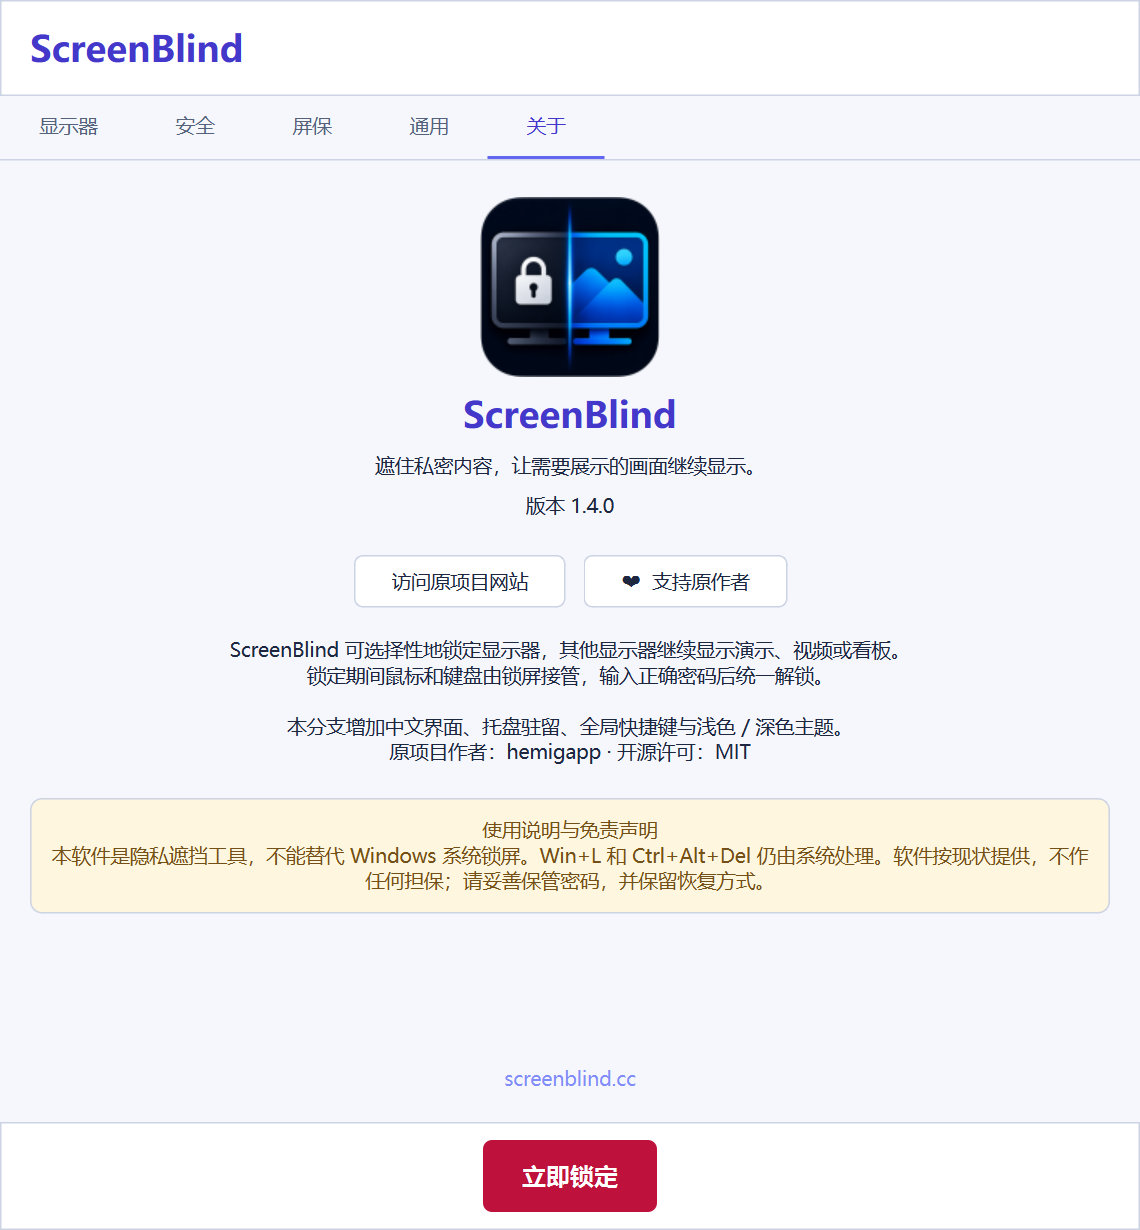
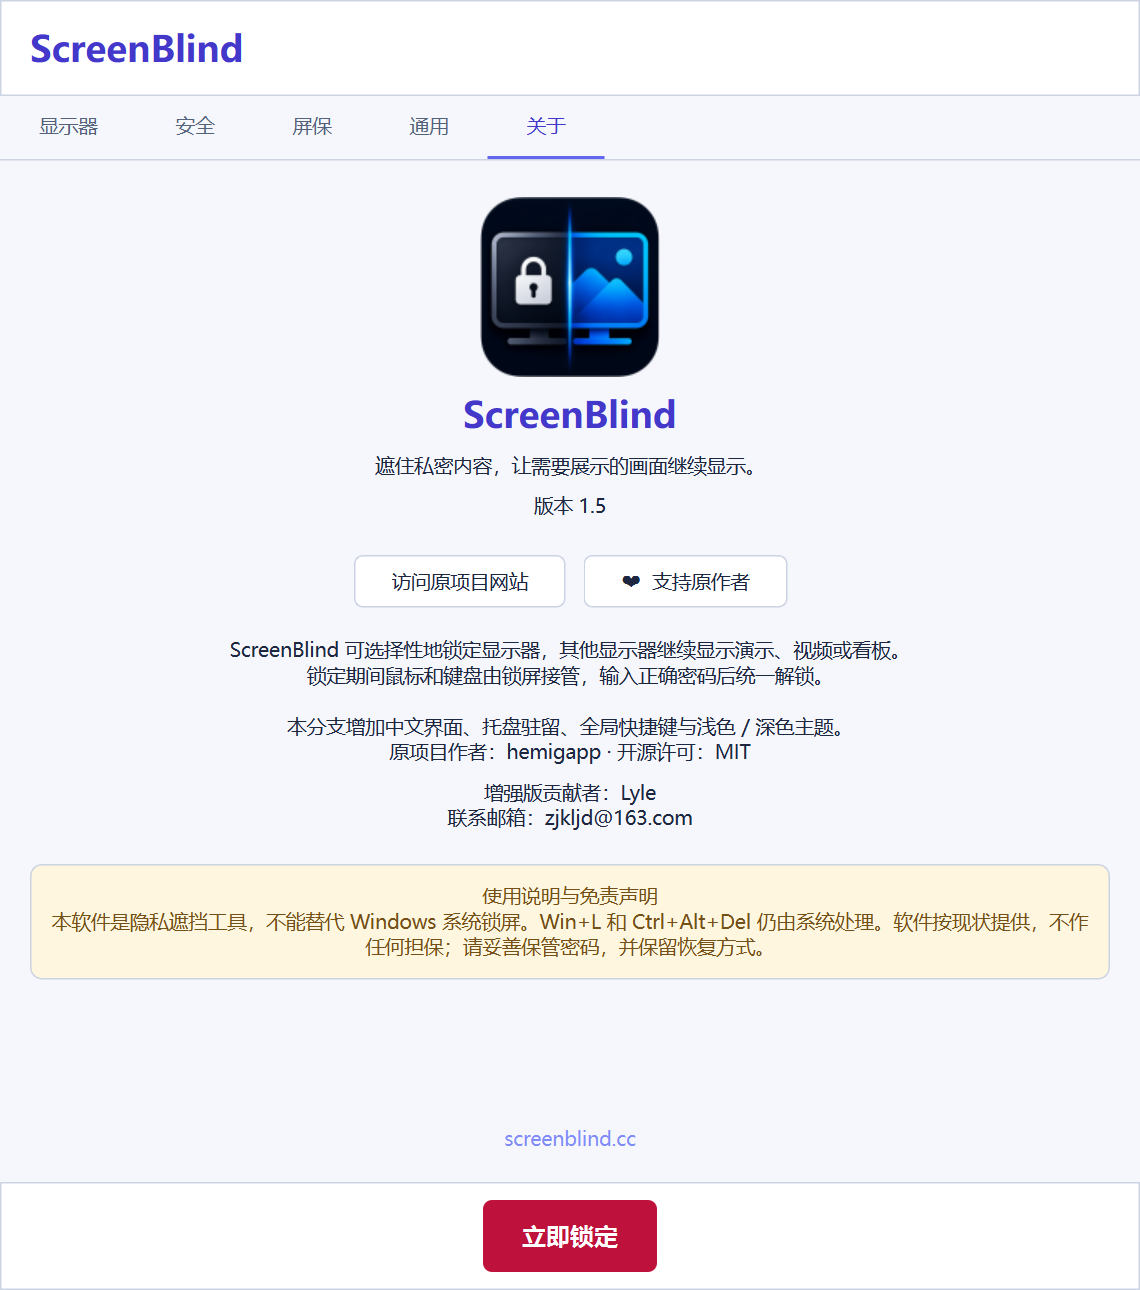
Credit Lyle in About and documentation; set version to v1.5

diff --git a/main.py b/main.py
@@ -481,7 +481,9 @@ class ScreensaverTab(QWidget):
 # About tab
 # ---------------------------------------------------------------------------
 
-APP_VERSION = "1.4.1"
+APP_VERSION = "1.5"
+CONTRIBUTOR_NAME = "Lyle"
+CONTRIBUTOR_EMAIL = "zjkljd@163.com"
 WEBSITE_URL = "https://screenblind.cc"
 DONATE_URL  = "https://www.paypal.com/donate/?hosted_button_id=ZXKFFGA7W6Y5E"
 
@@ -559,6 +561,13 @@ class AboutTab(QWidget):
         about_text.setWordWrap(True)
         about_text.setAlignment(Qt.AlignmentFlag.AlignHCenter)
         layout.addWidget(about_text)
+
+        contributor = QLabel(tr("Enhancements: {name}\nContact: {email}",
+                               name=CONTRIBUTOR_NAME, email=CONTRIBUTOR_EMAIL))
+        contributor.setWordWrap(True)
+        contributor.setAlignment(Qt.AlignmentFlag.AlignHCenter)
+        contributor.setTextInteractionFlags(Qt.TextInteractionFlag.TextSelectableByMouse)
+        layout.addWidget(contributor)
 
         layout.addSpacing(12)
 

diff --git a/i18n.py b/i18n.py
@@ -35,6 +35,7 @@ def tr(source, **values):
 
 
 ZH_CN = {
+    'Enhancements: {name}\nContact: {email}': '增强版贡献者：{name}\n联系邮箱：{email}',
     'Select displays to lock:': '选择需要锁定的显示器：',
     '↻  Refresh displays': '↻  刷新显示器',
     '🔢  Identify displays': '🔢  识别显示器',

diff --git a/README.md b/README.md
@@ -39,6 +39,8 @@ and keyboard input stays captured by the lock; the unlocked monitor is for
 
 ## Desktop settings
 
+Enhancements contributed by **Lyle** · [zjkljd@163.com](mailto:zjkljd@163.com).
+
 - **Tray residency** — closing the settings window keeps ScreenBlind running. Unlocking returns to the tray without opening settings or taking focus. Double-click the tray icon to reopen settings; right-click → Exit to quit after unlocking.
 - **Language** — choose System default, English or 简体中文 in General. Changes apply immediately to settings, tray menus, dialogs, lock-screen hints and dates. The selection is saved; unsaved password fields and hotkey drafts survive language changes. System default uses Chinese on Chinese systems and English elsewhere.
 - **Themes** — switch between dark and light settings UI; lock overlays keep their dark background.

diff --git a/README.zh-CN.md b/README.zh-CN.md
@@ -2,6 +2,8 @@
 
 基于 [hemigapp/ScreenBlind](https://github.com/hemigapp/ScreenBlind) 的 Windows 多显示器隐私遮挡工具，保留原项目 MIT 许可与作者署名。
 
+增强版贡献者：**Lyle** · 联系邮箱：[zjkljd@163.com](mailto:zjkljd@163.com)。
+
 ## 本分支新增
 
 - **托盘驻留**：关闭设置窗口后继续运行；解锁后自动回到托盘，不弹出设置窗口。双击托盘图标恢复窗口，右键菜单支持打开设置、立即锁定、退出软件。
